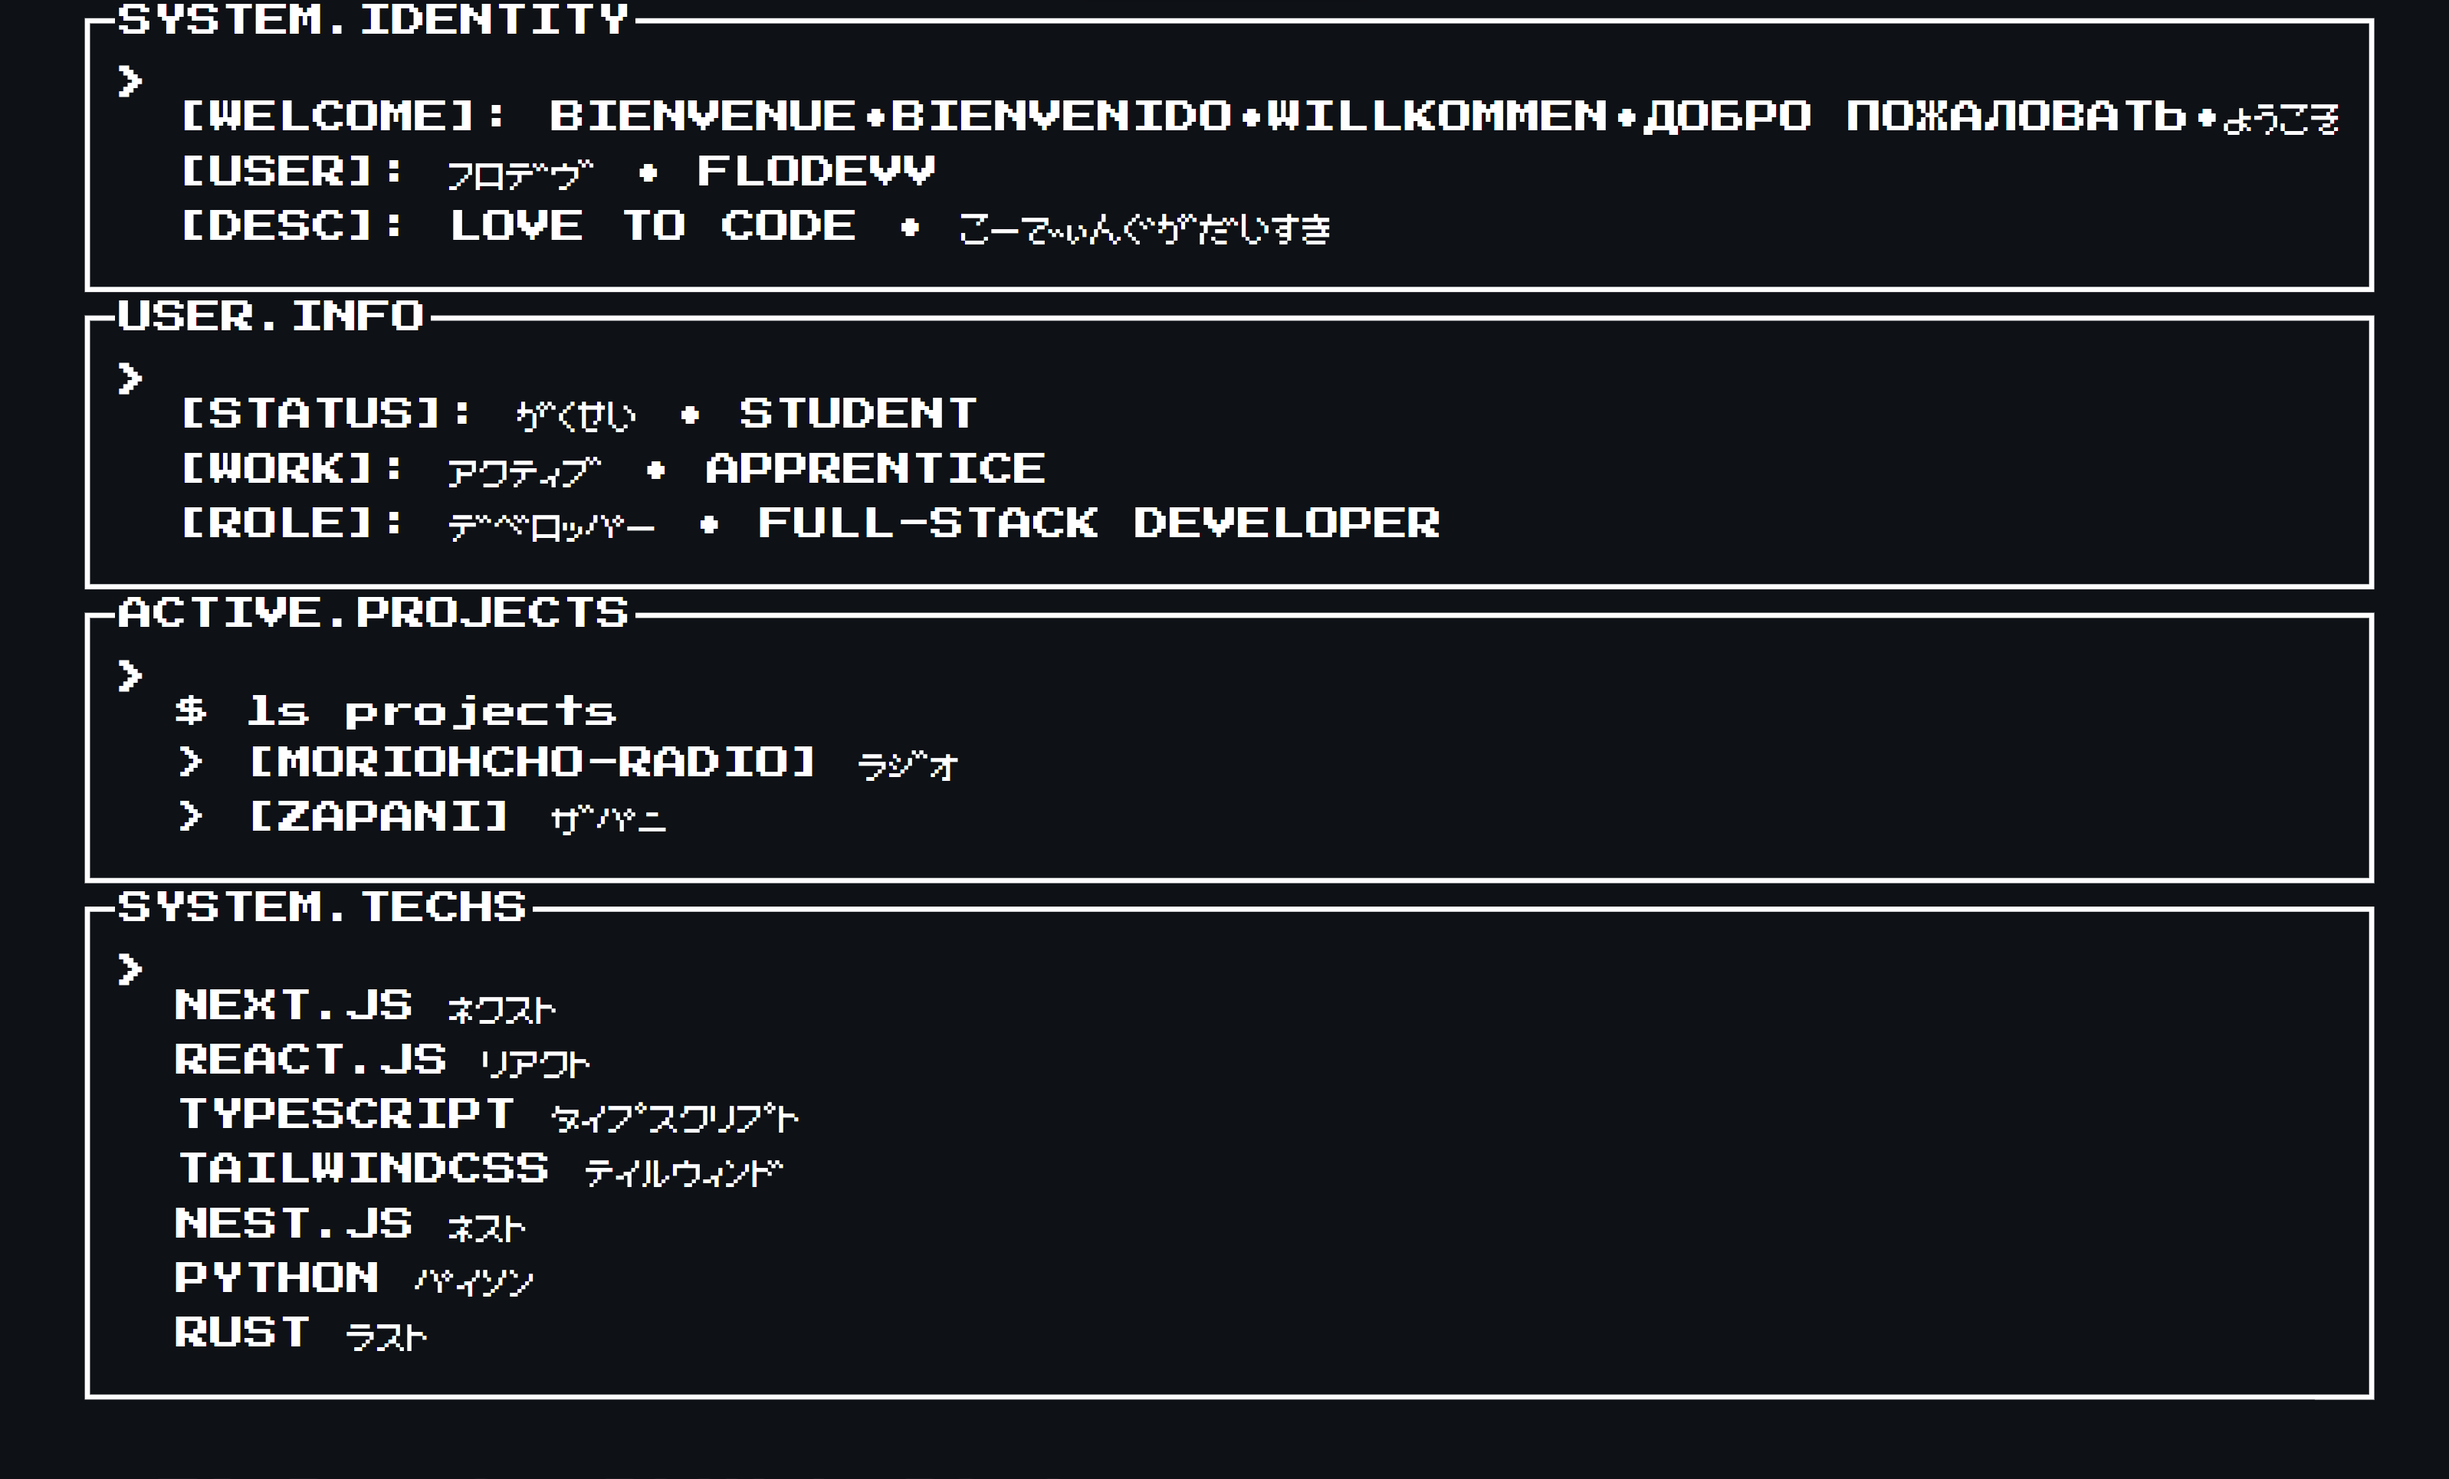
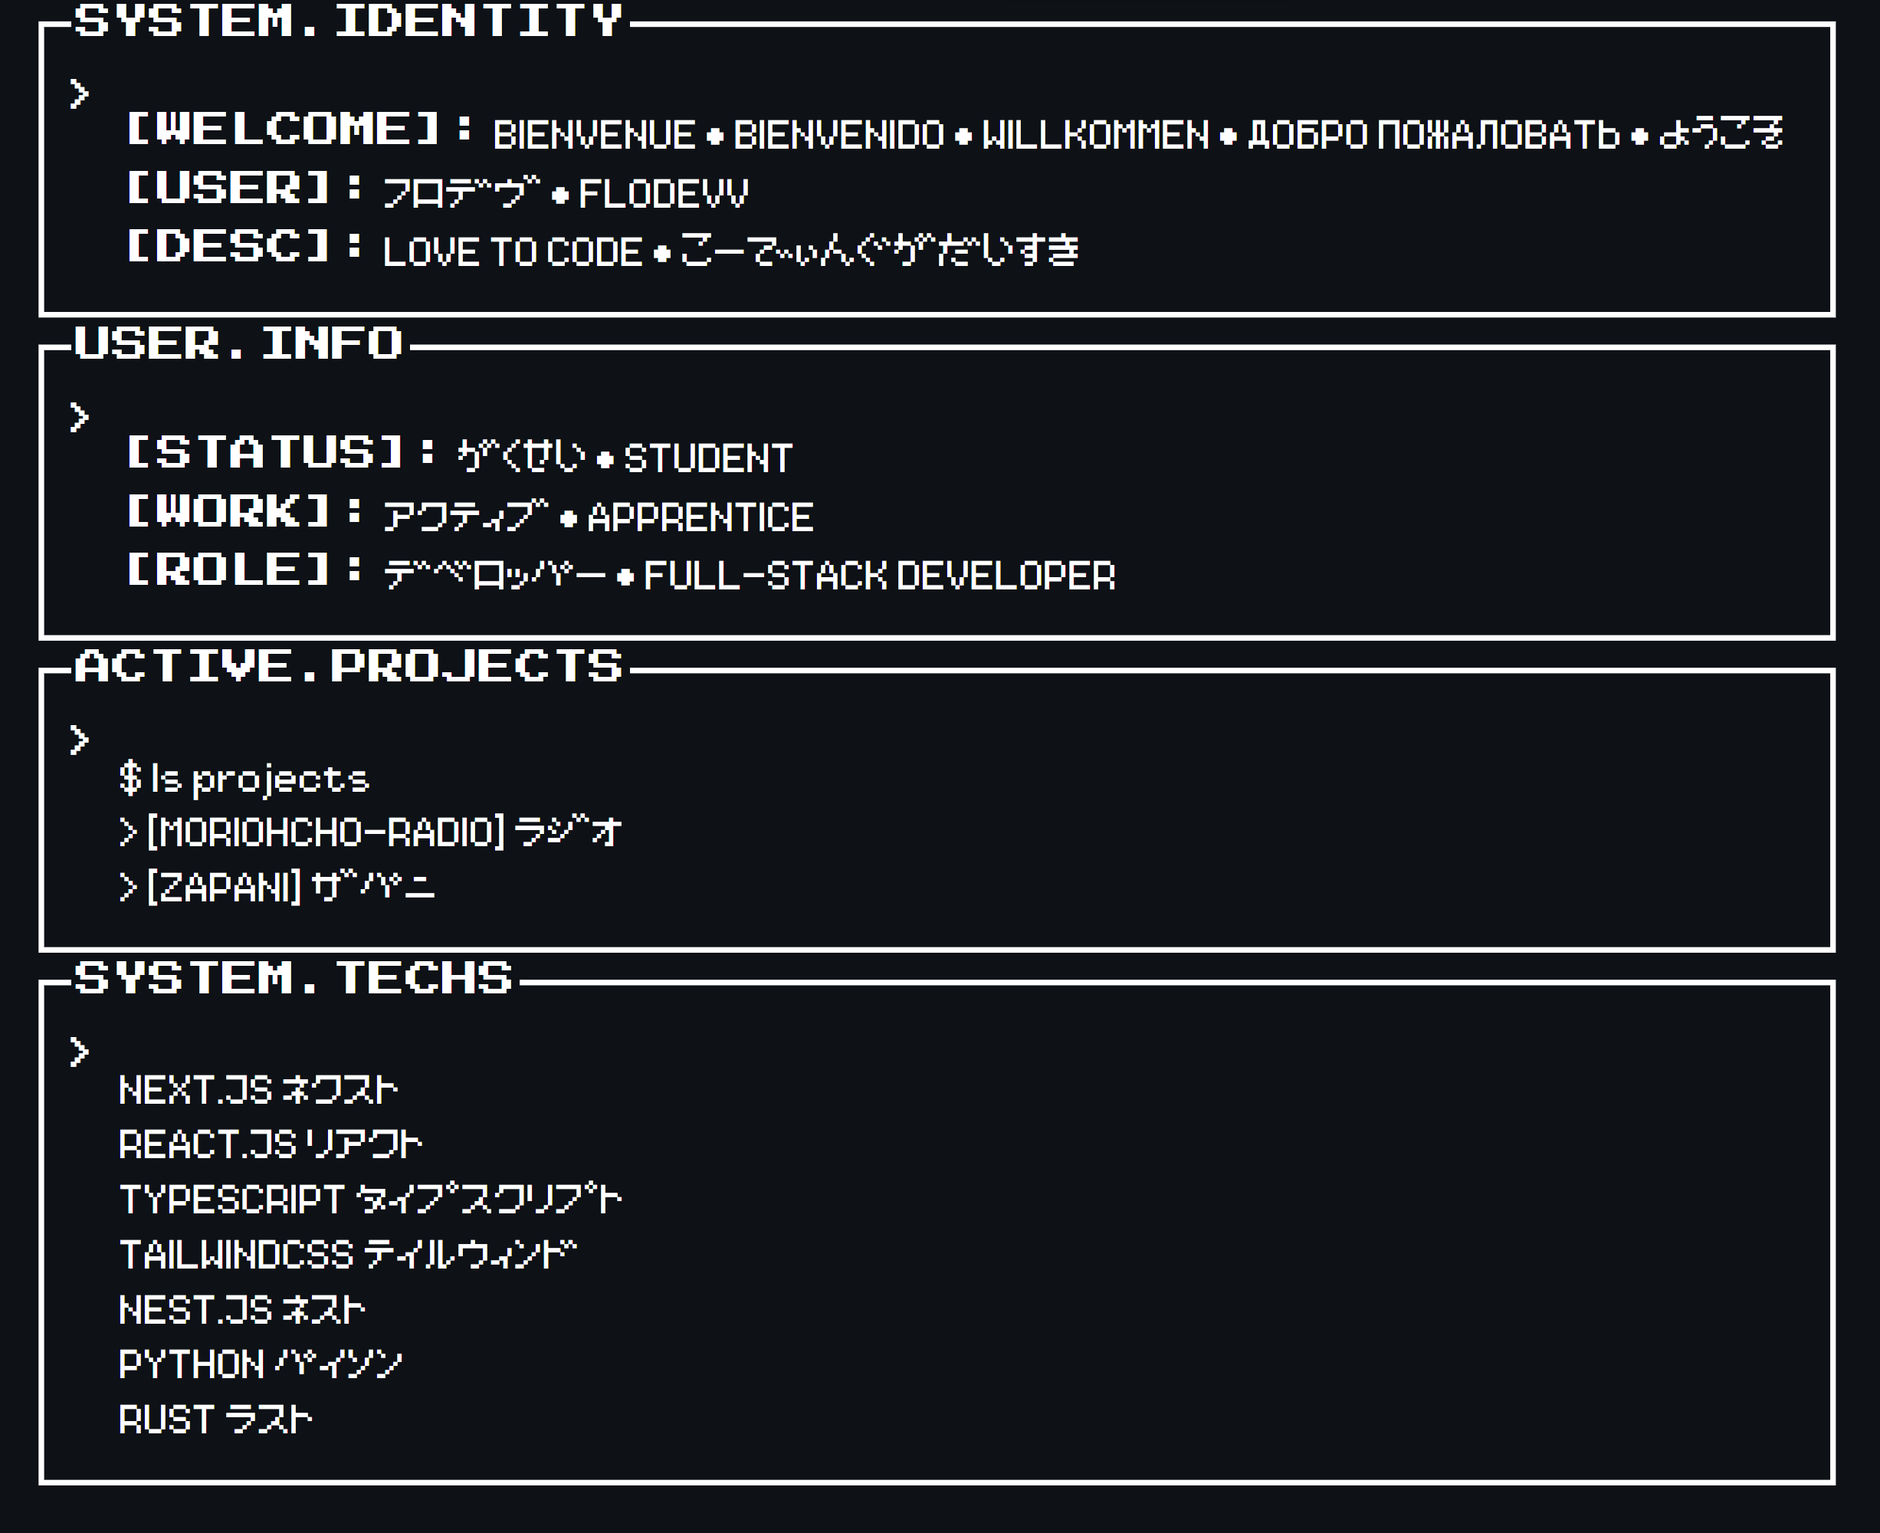
use double font

Changed region(s): [[0.0, 0.0, 0.9914, 0.9948]]

diff --git a/html/dark/index.html b/html/dark/index.html
@@ -9,29 +9,29 @@
 
   <body>
     <fieldset align="left">
-      <legend>SYSTEM.IDENTITY</legend>
+      <legend><span class="pressstart">SYSTEM.IDENTITY</span></legend>
       <div class="terminal-box">
         <pre>
-[WELCOME]: BIENVENUE•BIENVENIDO•WILLKOMMEN•ДОБРО ПОЖАЛОВАТЬ•<span class="japanese">ようこそ</span>
-[USER]: <span class="japanese">フロデヴ</span> • FLODEVV
-[DESC]: LOVE TO CODE • <span class="japanese">こーでぃんぐがだいすき</span>
+<span class="pressstart">[WELCOME]:</span> BIENVENUE • BIENVENIDO • WILLKOMMEN • ДОБРО ПОЖАЛОВАТЬ • <span class="japanese">ようこそ</span>
+<span class="pressstart">[USER]:</span> <span class="japanese">フロデヴ</span> • FLODEVV
+<span class="pressstart">[DESC]:</span> LOVE TO CODE • <span class="japanese">こーでぃんぐがだいすき</span>
         </pre>
       </div>
     </fieldset>
 
     <fieldset align="left">
-      <legend>USER.INFO</legend>
+      <legend><span class="pressstart">USER.INFO</span></legend>
       <div class="terminal-box pixel-border">
         <pre>
-[STATUS]: <span class="japanese">がくせい</span> • STUDENT
-[WORK]: <span class="japanese">アクティブ</span> • APPRENTICE
-[ROLE]: <span class="japanese">デベロッパー</span> • FULL-STACK DEVELOPER
+<span class="pressstart">[STATUS]:</span> <span class="japanese">がくせい</span> • STUDENT
+<span class="pressstart">[WORK]:</span> <span class="japanese">アクティブ</span> • APPRENTICE
+<span class="pressstart">[ROLE]:</span> <span class="japanese">デベロッパー</span> • FULL-STACK DEVELOPER
         </pre>
       </div>
     </fieldset>
 
     <fieldset align="left">
-      <legend>ACTIVE.PROJECTS</legend>
+      <legend><span class="pressstart">ACTIVE.PROJECTS</span></legend>
       <div class="terminal-box pixel-border">
         <pre>
 $ ls projects
@@ -42,7 +42,7 @@ $ ls projects
     </fieldset>
 
     <fieldset align="left">
-      <legend>SYSTEM.TECHS</legend>
+      <legend><span class="pressstart">SYSTEM.TECHS</span></legend>
       <div class="terminal-box pixel-border">
         <pre>
 NEXT.JS <span class="japanese">ネクスト</span>

diff --git a/html/dark/styles.css b/html/dark/styles.css
@@ -21,6 +21,16 @@ body {
   font-size: 18px;
   align-content: left;
 }
+
+* {
+  font-family: "NineteenNinetyThree-L1Ay", sans-serif;
+  scrollbar-width: none;
+}
+
+.pressstart {
+  font-family: "PressStart2P-Regular", monospace;
+}
+
 .japanese {
   font-family: "NineteenNinetyThree-L1Ay", sans-serif;
 }
@@ -29,7 +39,7 @@ fieldset {
   flex-direction: column;
   border: 3px solid #ffffff;
   margin-left: 50px;
-  max-width: 1175px;
+  max-width: 850px;
   background-color: rgba(13, 17, 23, 0.9);
 }
 
